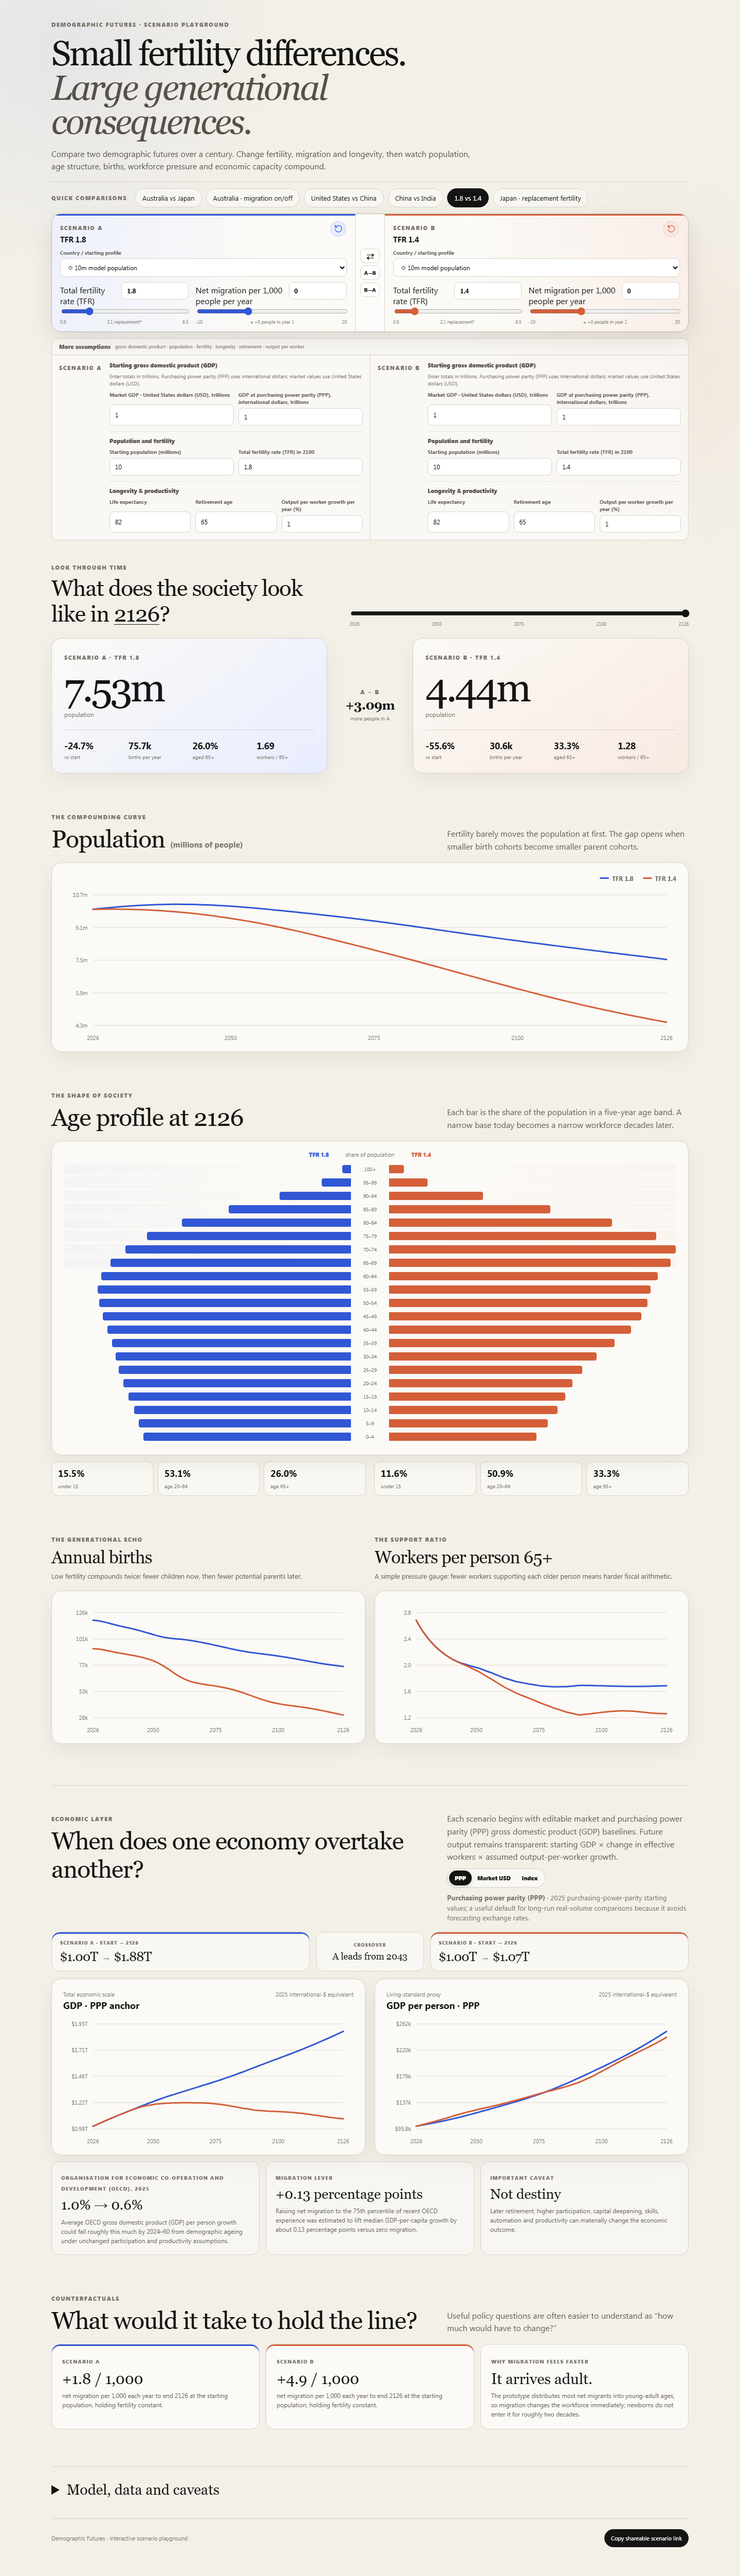
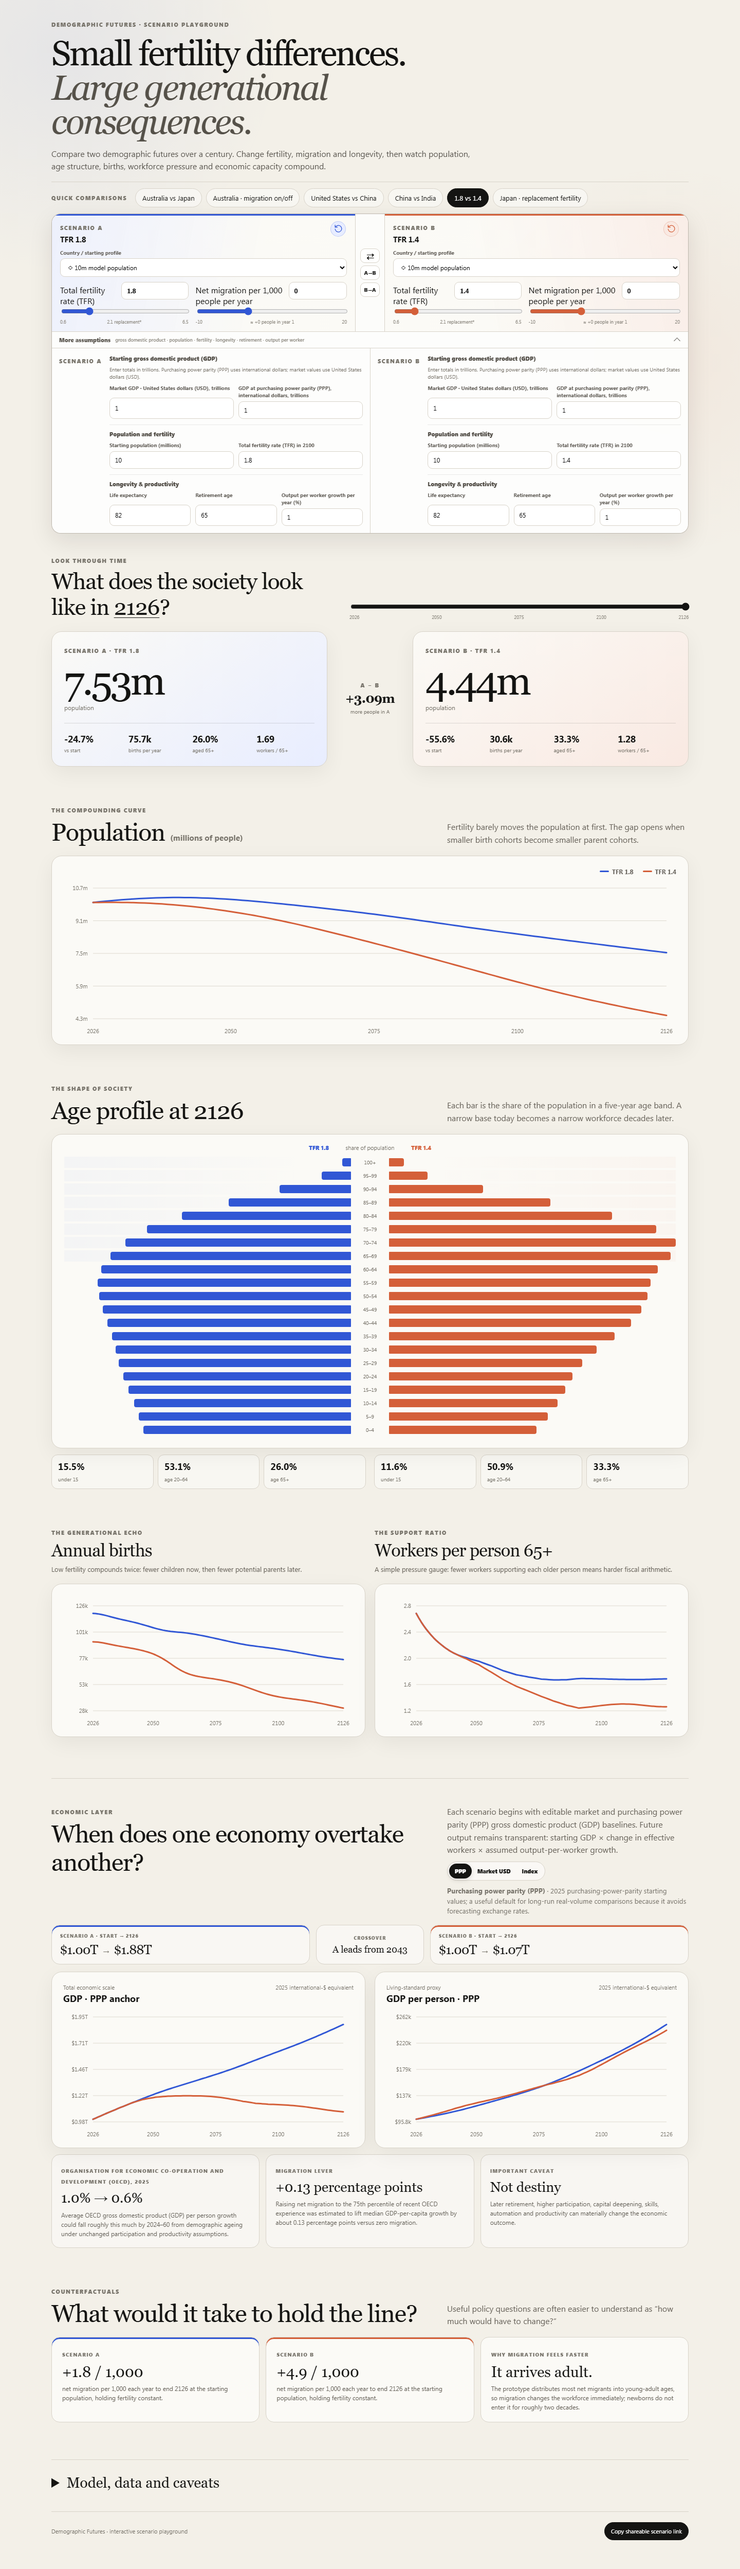
Restore sticky assumptions panel

diff --git a/src/App.tsx b/src/App.tsx
@@ -489,48 +489,50 @@ export function App() {
         })}
       </section>
 
-      <section className="sticky-scenarios" aria-label="Scenario controls">
-        <div className="mobile-control-tools">
-          <div className="mobile-scenario-tabs" role="tablist" aria-label="Choose scenario controls">
-            {(['a', 'b'] as const).map((side) => (
-              <button
-                key={side}
-                id={`mobile-tab-${side}`}
-                type="button"
-                role="tab"
-                aria-controls={`mobile-panel-${side}`}
-                aria-selected={mobileSide === side}
-                tabIndex={mobileSide === side ? 0 : -1}
-                className={`mobile-scenario-tab mobile-tab-${side} ${mobileSide === side ? 'active' : ''}`}
-                onClick={() => setMobileSide(side)}
-                onKeyDown={(event) => {
-                  if (!['ArrowLeft', 'ArrowRight', 'Home', 'End'].includes(event.key)) return;
-                  event.preventDefault();
-                  const nextSide: Side = event.key === 'Home' ? 'a' : event.key === 'End' ? 'b' : side === 'a' ? 'b' : 'a';
-                  setMobileSide(nextSide);
-                  document.getElementById(`mobile-tab-${nextSide}`)?.focus();
-                }}
-              >
-                <span>Scenario {side.toUpperCase()}</span><strong>{state[side].title}</strong>
-              </button>
-            ))}
+      <div className="sticky-lab">
+        <section className="sticky-scenarios" aria-label="Scenario controls">
+          <div className="mobile-control-tools">
+            <div className="mobile-scenario-tabs" role="tablist" aria-label="Choose scenario controls">
+              {(['a', 'b'] as const).map((side) => (
+                <button
+                  key={side}
+                  id={`mobile-tab-${side}`}
+                  type="button"
+                  role="tab"
+                  aria-controls={`mobile-panel-${side}`}
+                  aria-selected={mobileSide === side}
+                  tabIndex={mobileSide === side ? 0 : -1}
+                  className={`mobile-scenario-tab mobile-tab-${side} ${mobileSide === side ? 'active' : ''}`}
+                  onClick={() => setMobileSide(side)}
+                  onKeyDown={(event) => {
+                    if (!['ArrowLeft', 'ArrowRight', 'Home', 'End'].includes(event.key)) return;
+                    event.preventDefault();
+                    const nextSide: Side = event.key === 'Home' ? 'a' : event.key === 'End' ? 'b' : side === 'a' ? 'b' : 'a';
+                    setMobileSide(nextSide);
+                    document.getElementById(`mobile-tab-${nextSide}`)?.focus();
+                  }}
+                >
+                  <span>Scenario {side.toUpperCase()}</span><strong>{state[side].title}</strong>
+                </button>
+              ))}
+            </div>
+            <div className="scenario-actions" aria-label="Scenario actions">
+              <button type="button" title="Swap scenarios" aria-label="Swap scenarios" onClick={() => setState((previous) => ({ ...previous, a: previous.b, b: previous.a, activePreset: null }))}>⇄</button>
+              <button type="button" title="Copy A to B" aria-label="Copy Scenario A to B" onClick={() => copyScenario('a', 'b')}>A→B</button>
+              <button type="button" title="Copy B to A" aria-label="Copy Scenario B to A" onClick={() => copyScenario('b', 'a')}>B→A</button>
+            </div>
           </div>
-          <div className="scenario-actions" aria-label="Scenario actions">
-            <button type="button" title="Swap scenarios" aria-label="Swap scenarios" onClick={() => setState((previous) => ({ ...previous, a: previous.b, b: previous.a, activePreset: null }))}>⇄</button>
-            <button type="button" title="Copy A to B" aria-label="Copy Scenario A to B" onClick={() => copyScenario('a', 'b')}>A→B</button>
-            <button type="button" title="Copy B to A" aria-label="Copy Scenario B to A" onClick={() => copyScenario('b', 'a')}>B→A</button>
+          <ScenarioControls side="a" scenario={state.a} mobileActive={mobileSide === 'a'} onChange={(patch) => updateScenario('a', patch)} onCountryChange={(id) => changeCountry('a', id)} onResetScenario={() => resetScenario('a')} />
+          <ScenarioControls side="b" scenario={state.b} mobileActive={mobileSide === 'b'} onChange={(patch) => updateScenario('b', patch)} onCountryChange={(id) => changeCountry('b', id)} onResetScenario={() => resetScenario('b')} />
+        </section>
+        <details className="sticky-advanced">
+          <summary><span>More assumptions</span><small>gross domestic product · population · fertility · longevity · retirement · output per worker</small></summary>
+          <div className="sticky-advanced-grid">
+            <ScenarioAssumptions side="a" scenario={state.a} mobileActive={mobileSide === 'a'} onChange={(patch) => updateScenario('a', patch)} />
+            <ScenarioAssumptions side="b" scenario={state.b} mobileActive={mobileSide === 'b'} onChange={(patch) => updateScenario('b', patch)} />
           </div>
-        </div>
-        <ScenarioControls side="a" scenario={state.a} mobileActive={mobileSide === 'a'} onChange={(patch) => updateScenario('a', patch)} onCountryChange={(id) => changeCountry('a', id)} onResetScenario={() => resetScenario('a')} />
-        <ScenarioControls side="b" scenario={state.b} mobileActive={mobileSide === 'b'} onChange={(patch) => updateScenario('b', patch)} onCountryChange={(id) => changeCountry('b', id)} onResetScenario={() => resetScenario('b')} />
-      </section>
-      <details className="sticky-advanced">
-        <summary><span>More assumptions</span><small>gross domestic product · population · fertility · longevity · retirement · output per worker</small></summary>
-        <div className="sticky-advanced-grid">
-          <ScenarioAssumptions side="a" scenario={state.a} mobileActive={mobileSide === 'a'} onChange={(patch) => updateScenario('a', patch)} />
-          <ScenarioAssumptions side="b" scenario={state.b} mobileActive={mobileSide === 'b'} onChange={(patch) => updateScenario('b', patch)} />
-        </div>
-      </details>
+        </details>
+      </div>
 
       <section className="time-deck">
         <div><span className="section-kicker">LOOK THROUGH TIME</span><h2>What does the society look like in <strong>{state.year}</strong>?</h2></div>

diff --git a/styles.css b/styles.css
@@ -42,11 +42,11 @@ h1 em { font-weight: 400; color: #555149; }
 .preset:hover { background: var(--paper); transform: translateY(-1px); }
 .preset.active { background: var(--ink); color: white; border-color: var(--ink); }
 
-.sticky-scenarios {
+.sticky-lab {
   position: sticky;
   top: 10px;
   z-index: 30;
-  margin: 0 0 12px;
+  margin: 0 0 24px;
   border: 1px solid rgba(184,178,167,.92);
   border-radius: 18px;
   background: rgba(251,250,246,.94);
@@ -54,6 +54,8 @@ h1 em { font-weight: 400; color: #555149; }
   backdrop-filter: blur(16px) saturate(1.15);
   -webkit-backdrop-filter: blur(16px) saturate(1.15);
   overflow: hidden;
+}
+.sticky-scenarios {
   display:grid;
   grid-template-columns:minmax(0,1fr) 58px minmax(0,1fr);
   align-items:stretch;
@@ -82,6 +84,7 @@ h1 em { font-weight: 400; color: #555149; }
 @media (prefers-reduced-motion: reduce) {
   .scenario-reset, .scenario-reset-icon { transition:none; }
   .scenario-reset:hover, .scenario-reset:active { transform:none; }
+  .sticky-advanced summary::after { transition:none; }
 }
 .compact-field { display:grid; gap:4px; min-width:0; }
 .compact-field > span, .control-top label, .mini-field span { font-size:10px; font-weight:750; color:#5f5b54; }
@@ -101,8 +104,11 @@ select:focus, .mini-field input:focus { border-color:#aaa49a; box-shadow:0 0 0 3
 .scenario-actions button { width:38px; min-height:28px; border:1px solid var(--line); border-radius:9px; background:rgba(255,255,255,.85); cursor:pointer; font-size:10px; font-weight:800; }
 .scenario-actions button:first-child { font-size:17px; }
 .scenario-actions button:hover { background:#fff; }
-.sticky-advanced { margin:0 0 24px; border:1px solid var(--line); border-radius:12px; background:rgba(255,255,255,.55); overflow:hidden; }
-.sticky-advanced summary { display:flex; align-items:center; gap:9px; padding:8px 14px; cursor:pointer; font-size:11px; font-weight:800; color:#5f5b54; list-style-position:inside; }
+.sticky-advanced { margin:0; border-top:1px solid var(--line); background:rgba(255,255,255,.55); }
+.sticky-advanced summary { display:flex; align-items:center; gap:9px; padding:8px 14px; cursor:pointer; font-size:11px; font-weight:800; color:#5f5b54; list-style:none; }
+.sticky-advanced summary::-webkit-details-marker { display:none; }
+.sticky-advanced summary::after { content:""; flex:0 0 auto; width:8px; height:8px; margin-left:auto; margin-right:3px; border-right:1.5px solid currentColor; border-bottom:1.5px solid currentColor; transform:translateY(-2px) rotate(45deg); transition:transform .2s ease; }
+.sticky-advanced[open] summary::after { transform:translateY(2px) rotate(225deg); }
 .sticky-advanced summary small { font-weight:500; color:#8b877e; }
 .sticky-advanced-grid { display:grid; grid-template-columns:1fr 1fr; border-top:1px solid var(--line); }
 .advanced-side { display:grid; grid-template-columns:auto minmax(0,1fr); gap:9px; align-items:start; padding:11px 14px 13px; }
@@ -245,7 +251,8 @@ footer button { border:1px solid var(--ink); background:var(--ink); color:white;
   .preset-label { font-size:9px; margin-right:3px; }
   .preset { padding:8px 10px; font-size:11px; }
 
-  .sticky-scenarios { position:sticky; top:0; z-index:30; display:flex; flex-direction:column; margin:0 0 10px; border:1px solid rgba(184,178,167,.92); border-radius:14px; background:rgba(251,250,246,.97); box-shadow:0 8px 24px rgba(25,24,20,.12); backdrop-filter:blur(14px) saturate(1.1); -webkit-backdrop-filter:blur(14px) saturate(1.1); overflow:hidden; }
+  .sticky-lab { top:0; margin:0 0 14px; border-radius:14px; background:rgba(251,250,246,.97); box-shadow:0 8px 24px rgba(25,24,20,.12); backdrop-filter:blur(14px) saturate(1.1); -webkit-backdrop-filter:blur(14px) saturate(1.1); }
+  .sticky-scenarios { position:static; display:flex; flex-direction:column; border:0; border-radius:0; background:transparent; box-shadow:none; backdrop-filter:none; -webkit-backdrop-filter:none; overflow:visible; }
   .mobile-control-tools { display:flex; align-items:stretch; gap:7px; padding:5px 6px; border-bottom:1px solid var(--line); }
   .mobile-scenario-tabs { display:flex; flex:1; min-width:0; gap:5px; }
   .mobile-scenario-tab { display:grid; align-content:center; min-width:0; min-height:44px; flex:1; gap:2px; border:1px solid transparent; border-radius:9px; padding:4px 7px; text-align:left; cursor:pointer; }
@@ -274,11 +281,10 @@ footer button { border:1px solid var(--ink); background:var(--ink); color:white;
   .range { min-height:44px; margin:0; }
   .scale-labels { gap:3px; font-size:8px; }
 
-  .sticky-advanced { margin:0 0 14px; background:rgba(255,255,255,.62); }
+  .sticky-advanced { margin:0; background:rgba(255,255,255,.62); }
   .sticky-advanced summary { min-height:44px; padding:8px 11px; font-size:11px; }
   .sticky-advanced-grid { grid-template-columns:1fr; }
-  .advanced-side { display:none; }
-  .advanced-side[data-mobile-active="true"] { display:grid; padding:12px; }
+  .advanced-side[data-mobile-active="true"] { padding:12px; }
   .advanced-side + .advanced-side { border:0; }
   .advanced-fields { gap:13px; }
   .assumption-group-fields.two, .assumption-group-fields.three { grid-template-columns:repeat(2,minmax(0,1fr)); gap:8px; }
@@ -391,6 +397,8 @@ footer button { border:1px solid var(--ink); background:var(--ink); color:white;
 @media (max-width: 900px) {
   .advanced-side { grid-template-columns:1fr; }
   .advanced-side > .scenario-tag { padding-top:0; }
+  .sticky-advanced-grid > .advanced-side { display:none; }
+  .sticky-advanced-grid > .advanced-side[data-mobile-active="true"] { display:grid; }
   .economy-summary { grid-template-columns:1fr; }
   .econ-crossover-card { min-height:82px; }
 }

diff --git a/e2e/screenshot.spec.ts b/e2e/screenshot.spec.ts
@@ -14,8 +14,16 @@ test('captures the full dashboard for the README', async ({ page }) => {
   await page.getByText('More assumptions').click();
   await expect(page.getByRole('spinbutton', { name: 'Market GDP · United States dollars (USD), trillions' }).first()).toBeVisible();
   await expect(page.getByRole('img', { name: 'Population projection line chart' })).toBeVisible();
+  await expect(page.locator('.sticky-lab')).toHaveCSS('position', 'sticky');
+  await page.evaluate(() => {
+    document.documentElement.style.scrollBehavior = 'auto';
+    window.scrollTo(0, 1400);
+  });
+  await expect.poll(() => page.locator('.sticky-lab').boundingBox().then((box) => Math.round(box?.y ?? 1000))).toBe(10);
+  await page.evaluate(() => window.scrollTo(0, 0));
+  await expect.poll(() => page.evaluate(() => window.scrollY)).toBe(0);
   expect(pageErrors).toEqual([]);
-  await page.addStyleTag({ content: '.sticky-scenarios { position:relative !important; top:auto !important; }' });
+  await page.addStyleTag({ content: '.sticky-lab { position:relative !important; top:auto !important; }' });
   await page.screenshot({ path: 'docs/dashboard-full.png', fullPage: true, animations: 'disabled' });
 });
 
@@ -50,15 +58,22 @@ test('keeps the key controls usable at a mobile viewport', async ({ page }) => {
     const label = await target.getAttribute('aria-label') ?? await target.textContent() ?? 'control';
     expect(box?.height ?? 0, `${label.trim()} touch height`).toBeGreaterThanOrEqual(44);
   }
-  await page.getByText('More assumptions').click();
-  await expect(page.getByRole('spinbutton', { name: 'GDP at purchasing power parity (PPP), international dollars, trillions' }).first()).toBeVisible();
-  await page.getByText('More assumptions').click();
+  const assumptionsSummary = page.locator('.sticky-advanced summary');
+  const collapsedChevron = await assumptionsSummary.evaluate((element) => getComputedStyle(element, '::after').transform);
+  expect(collapsedChevron).not.toBe('none');
+  await assumptionsSummary.click();
+  await expect(page.locator('.advanced-b')).toBeVisible();
+  await expect(page.locator('.advanced-a')).not.toBeVisible();
+  await expect(page.getByRole('spinbutton', { name: 'GDP at purchasing power parity (PPP), international dollars, trillions' })).toBeVisible();
+  await expect.poll(() => assumptionsSummary.evaluate((element) => getComputedStyle(element, '::after').transform)).not.toBe(collapsedChevron);
   await tabA.click();
+  await expect(page.locator('.advanced-a')).toBeVisible();
+  await expect(page.locator('.advanced-b')).not.toBeVisible();
   const widths = await page.evaluate(() => ({ document: document.documentElement.scrollWidth, viewport: window.innerWidth }));
   expect(widths.document).toBeLessThanOrEqual(widths.viewport);
   for (const scrollY of [900, 2200]) {
     await page.evaluate((y) => window.scrollTo(0, y), scrollY);
-    await expect.poll(() => page.locator('.sticky-scenarios').boundingBox().then((box) => box?.y ?? 1000)).toBeLessThan(1);
+    await expect.poll(() => page.locator('.sticky-lab').boundingBox().then((box) => box?.y ?? 1000)).toBeLessThan(1);
   }
   const populationChart = page.getByRole('img', { name: 'Population projection line chart' });
   const chartBox = await populationChart.boundingBox();
@@ -69,17 +84,16 @@ test('keeps the key controls usable at a mobile viewport', async ({ page }) => {
     window.scrollTo(0, 0);
   });
   await expect.poll(() => page.evaluate(() => window.scrollY)).toBe(0);
-  await page.getByText('More assumptions').click();
   await expect(page.getByRole('spinbutton', { name: 'Market GDP · United States dollars (USD), trillions' }).first()).toBeVisible();
   const assumptionColumns = await page.locator('.advanced-a .assumption-group-fields.two').first().evaluate((element) => getComputedStyle(element).gridTemplateColumns.split(' ').length);
   expect(assumptionColumns).toBe(2);
-  const screenshotStyle = await page.addStyleTag({ content: '.sticky-scenarios { position:relative !important; top:auto !important; }' });
+  const screenshotStyle = await page.addStyleTag({ content: '.sticky-lab { position:relative !important; top:auto !important; }' });
   await page.screenshot({ path: 'docs/dashboard-mobile.png', fullPage: true, animations: 'disabled' });
   await screenshotStyle.evaluate((style) => style.remove());
   for (const width of [320, 768]) {
     await page.setViewportSize({ width, height: 844 });
     await expect(page.getByRole('tablist', { name: 'Choose scenario controls' })).toBeVisible();
-    await expect(page.locator('.sticky-scenarios')).toHaveCSS('position', 'sticky');
+    await expect(page.locator('.sticky-lab')).toHaveCSS('position', 'sticky');
     const responsiveWidths = await page.evaluate(() => ({ document: document.documentElement.scrollWidth, viewport: window.innerWidth }));
     expect(responsiveWidths.document).toBeLessThanOrEqual(responsiveWidths.viewport);
   }
